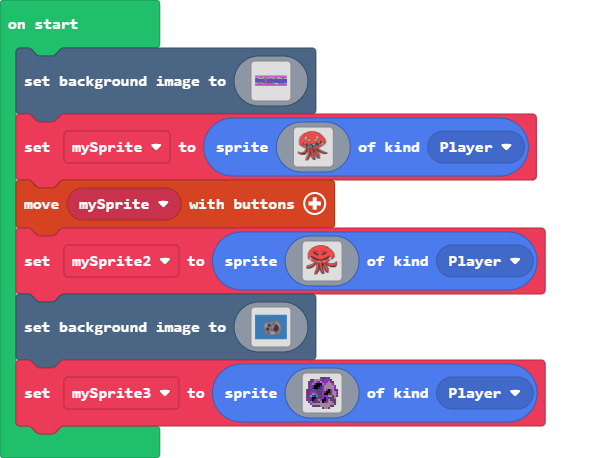
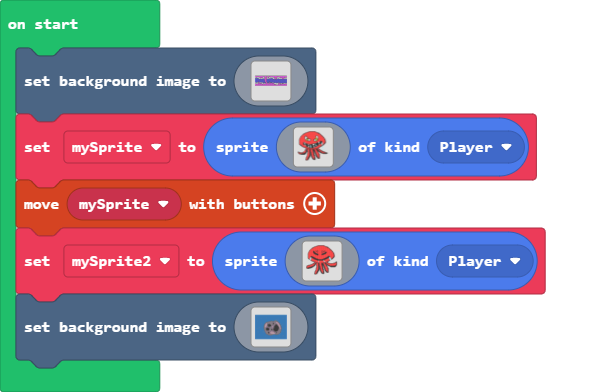
Update pxt.json, main.blocks, main.ts

diff --git a/main.ts b/main.ts
@@ -329,21 +329,3 @@ scene.setBackgroundImage(img`
     8888888888888888888888888888888888888888888888888888888888888888888888888888888888888888888888888888888888888888888888888888888888888888888888888888888888888888
     8888888888888888888888888888888888888888888888888888888888888888888888888888888888888888888888888888888888888888888888888888888888888888888888888888888888888888
     `)
-let mySprite3 = sprites.create(img`
-    . . . . . . . c c c a c . . . . 
-    . . c c b b b a c a a a c . . . 
-    . c c a b a c b a a a b c c . . 
-    . c a b c f f f b a b b b a . . 
-    . c a c f f f 8 a b b b b b a . 
-    . c a 8 f f 8 c a b b b b b a . 
-    c c c a c c c c a b c f a b c c 
-    c c a a a c c c a c f f c b b a 
-    c c a b 6 a c c a f f c c b b a 
-    c a b c 8 6 c c a a a b b c b c 
-    c a c f f a c c a f a c c c b . 
-    c a 8 f c c b a f f c b c c c . 
-    . c b c c c c b f c a b b a c . 
-    . . a b b b b b b b b b b b c . 
-    . . . c c c c b b b b b c c . . 
-    . . . . . . . . c b b c . . . . 
-    `, SpriteKind.Player)
